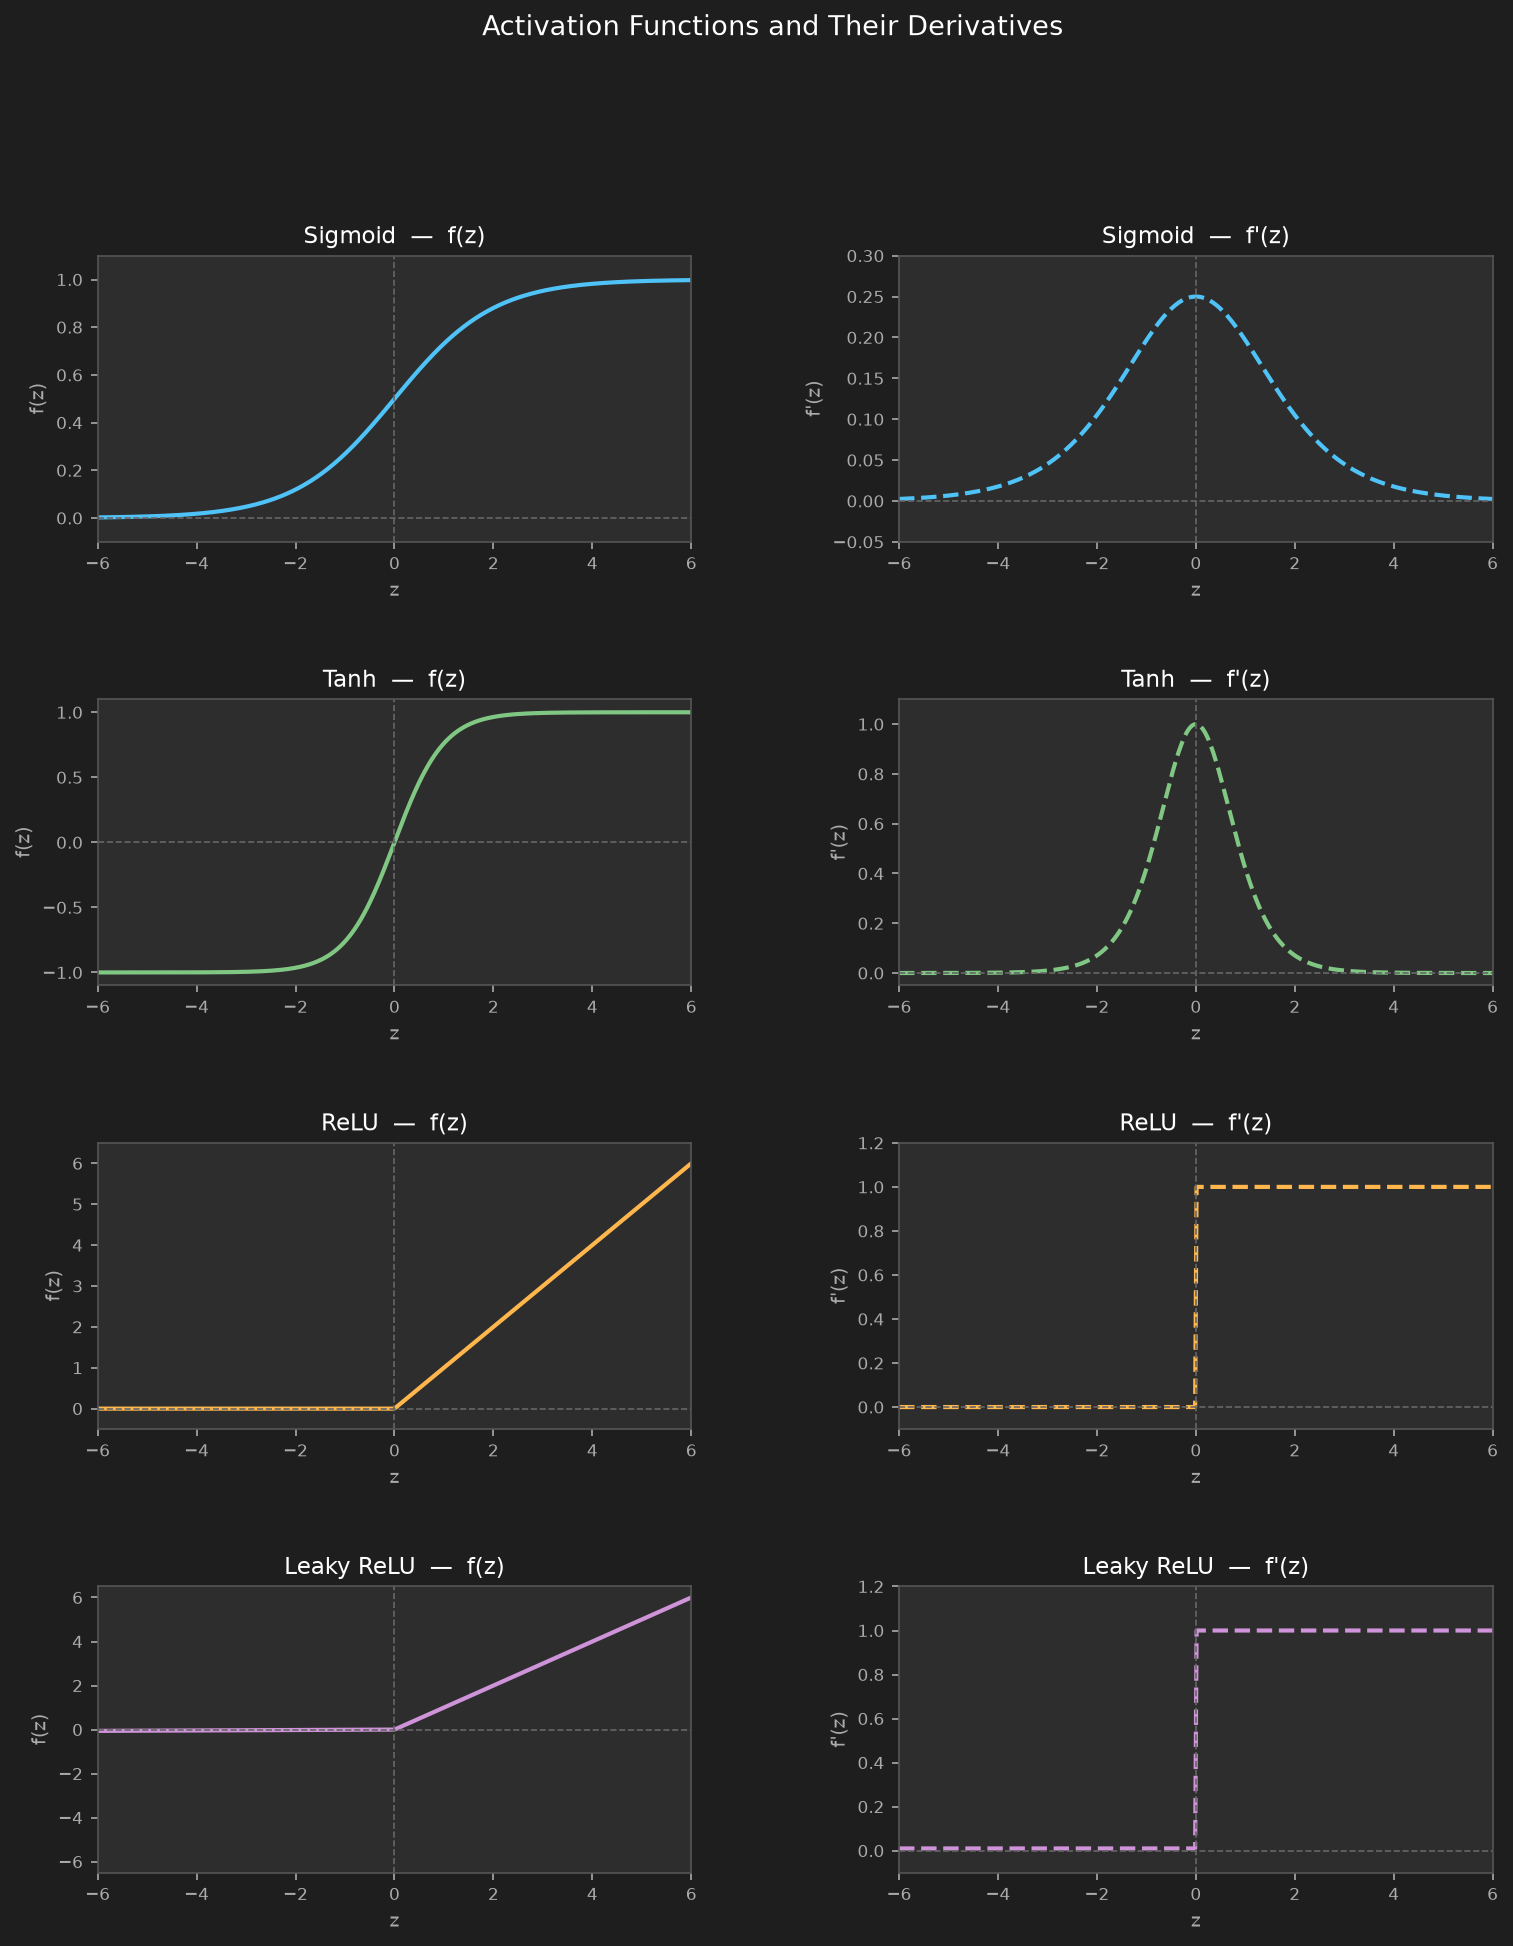
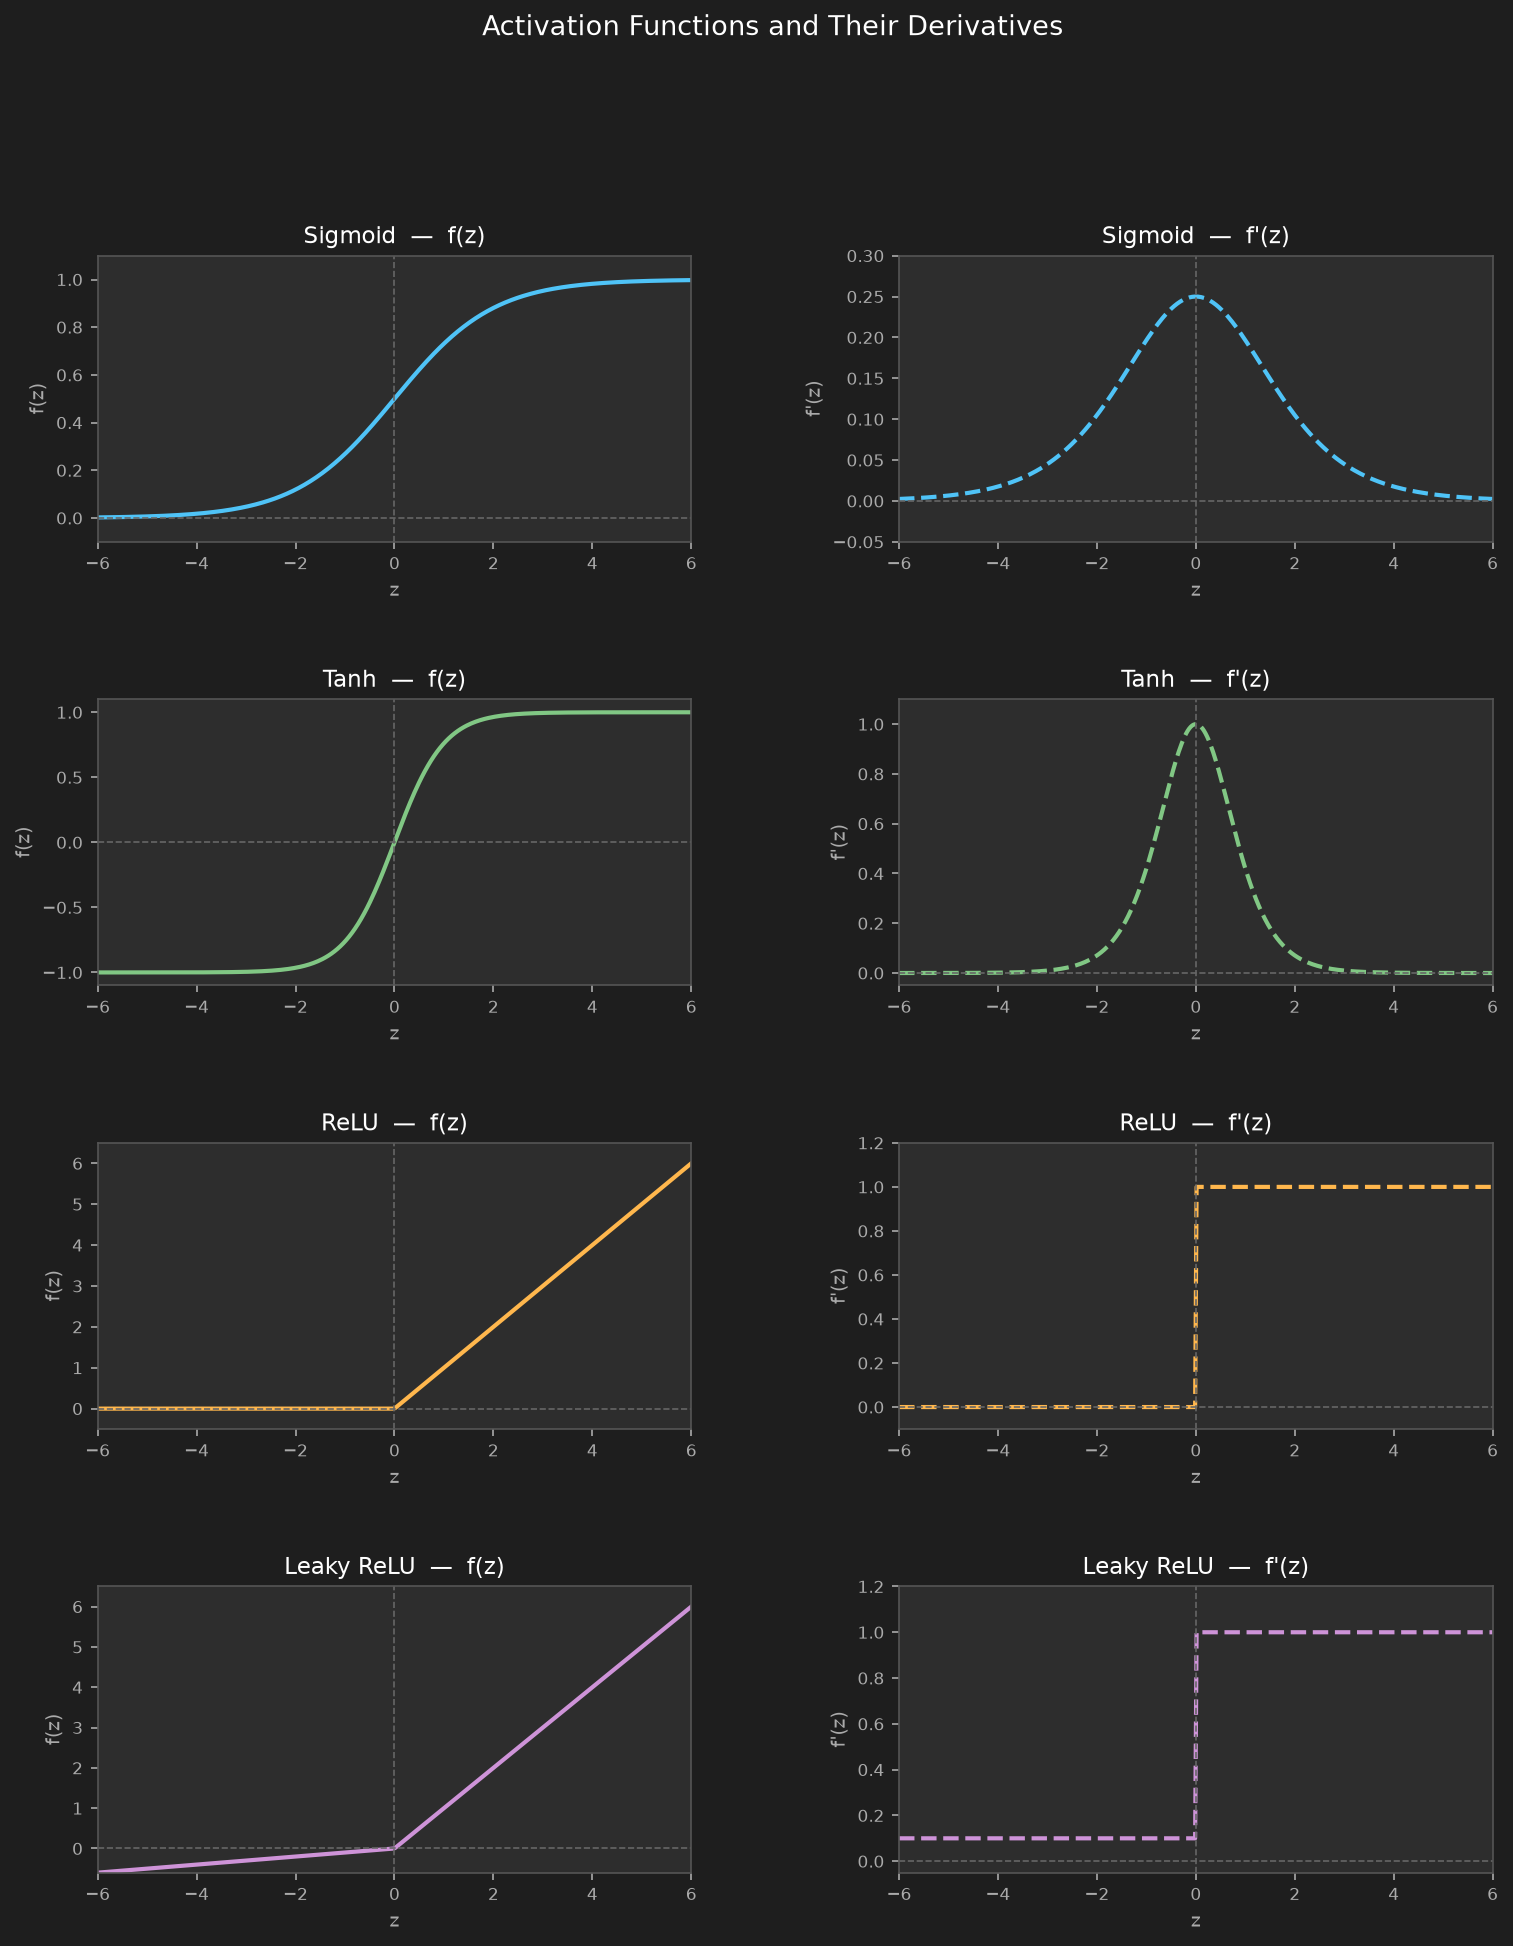
update note 04: fix leaky relu diagram negative slope visibility

diff --git a/notes/scripts/plot_activation_functions.py b/notes/scripts/plot_activation_functions.py
@@ -22,10 +22,10 @@ def relu(z):
 def relu_deriv(z):
     return (z > 0).astype(float)
 
-def leaky_relu(z, alpha=0.01):
+def leaky_relu(z, alpha=0.1):
     return np.where(z > 0, z, alpha * z)
 
-def leaky_relu_deriv(z, alpha=0.01):
+def leaky_relu_deriv(z, alpha=0.1):
     return np.where(z > 0, 1.0, alpha)
 
 # --- layout: 4 rows x 2 cols ---
@@ -37,7 +37,7 @@ configs = [
     ("Sigmoid",      sigmoid(z),           sigmoid_deriv(z),    "#4fc3f7", (-0.1, 1.1),  (-0.05, 0.30)),
     ("Tanh",         np.tanh(z),           tanh_deriv(z),       "#81c784", (-1.1, 1.1),  (-0.05, 1.10)),
     ("ReLU",         relu(z),              relu_deriv(z),       "#ffb74d", (-0.5, 6.5),  (-0.1,  1.2)),
-    ("Leaky ReLU",   leaky_relu(z),        leaky_relu_deriv(z), "#ce93d8", (-6.5, 6.5),  (-0.1,  1.2)),
+    ("Leaky ReLU",   leaky_relu(z),        leaky_relu_deriv(z), "#ce93d8", (-0.6, 6.5),  (-0.05, 1.2)),
 ]
 
 for row, (name, f, df, color, ylim_f, ylim_df) in enumerate(configs):
